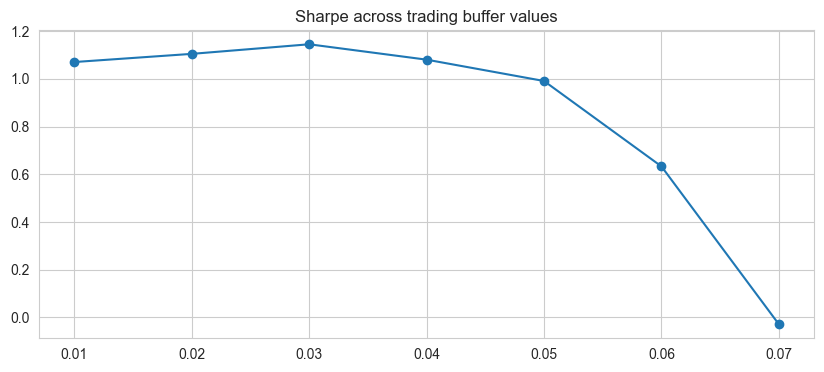
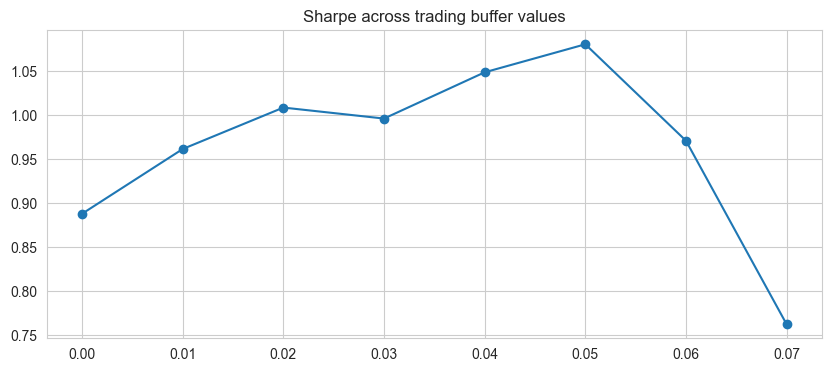
changes

diff --git a/_posts/2024-03-11-crypto-stat-arb-II.md b/_posts/2024-03-11-crypto-stat-arb-II.md
@@ -2,11 +2,11 @@
 layout: post
 title: "Crypto Stat Arb Series II: Backtesting with a Trade Buffer"
 category: quant
-excerpt: "Part II of a trading project from RobotJames/Kris, originally in R, in Python. I code up a backtest in Python based off RJ/Kris' R backtesting framework Rsims to implement a trading buffer as a heuristic to manage turnover. I then backtest the 0.3/0.2/0.5 carry/momentum/breakout weighted strategy from Part I versus a dynamically weighted version modelling expected returns, finding the trade buffer value for optimal Sharpe."
+excerpt: "Part II of a trading project from RobotJames/Kris, originally in R, in Python. I code up a backtest in Python based off RJ/Kris' event-based R backtesting framework Rsims to implement a trading buffer as a heuristic to manage turnover. I then backtest the 0.3/0.2/0.5 carry/momentum/breakout weighted strategy from Part I versus a dynamically weighted version modelling expected returns, finding the trade buffer value for optimal Sharpe."
 
 ---
 
-Part II trading project from RobotJames/Kris, originally in R, in Python. I code up a backtest in Python based off RJ/Kris' R backtesting framework [Rsims](https://github.com/Robot-Wealth/rsims) to implement a trading buffer as a heuristic to manage turnover. I then backtest the 0.3/0.2/0.5 weighted strategy from Part I versus a dynamically weighted version of the strategy from modelling expected returns.
+Part II trading project from RobotJames/Kris, originally in R, in Python. I code up a backtest in Python based off RJ/Kris' event-based R backtesting framework [Rsims](https://github.com/Robot-Wealth/rsims) to implement a trading buffer as a heuristic to manage turnover. I then backtest the 0.3/0.2/0.5 weighted strategy from Part I versus a dynamically weighted version of the strategy from modelling expected returns.
 
 We want to simulated our strategy in the previous post via a backtest. RobotJames and Kris cover this in this part of their Crypto stat arb series. They have a backtesting library in R, `rsims`, that they use and demonstrate in their post. We are going to implement a simpler version of `fixed_comission_with_funding.R` in Python. To quote their post:
 
@@ -33,6 +33,8 @@ funding = model_df.pivot(index='date', columns='ticker', values='funding_rate').
 # Structure of the Backtest
 
 The main code of the backtest is in this function: `fixed_commission_backtest_with_funding`. It expects the `weights`, `close` and `funding` in the format mentioned above. It assumes we can trade fractional positions, and starts with 10000 initial cash that is not reinvested - we always rebalance with 10000 or less each day.
+
+The `15 bps` costs is quoted from the original psot as a "reasonable approximation of actual Binance costs (spreads + market impact + commission)".
 
 ```python
 def fixed_commission_backtest_with_funding(prices, target_weights, funding_rates, 
@@ -199,21 +201,31 @@ plot_equity(total_eq,sharpe)
 <img src="{{ site.imageurl }}/CryptoStatArb/images_backtest/2_equity_curve.png" style="width:100%;"/>
 </center>
 
-A Sharpe of 1.67, similar to the original post. Let's look at turnover. We can see that with a trade buffer of `0.05` the turnover on average hits `~4%` of the trading capital per day, with extremes of turning over `~15%` of the book.
+A Sharpe of 1.67, similar to the original post. Let's look at turnover. We can see that with a trade buffer of `0.05` the turnover on average hits `~4%` of the trading capital per day, with extremes of turning over `~15%` of the book. Interestingly, the strategy returns have negative skew.
+
 
 <center>
 <img src="{{ site.imageurl }}/CryptoStatArb/images_backtest/4_turnover.png" style="width:100%;"/>
 </center>
 
-Further zooming in on turnover of a randomly chosen week:
 
 <center>
-<img src="{{ site.imageurl }}/CryptoStatArb/images_backtest/5_daily_turnover.png" style="width:70%;"/>
+<img src="{{ site.imageurl }}/CryptoStatArb/images_backtest/3_rets_dist.png" style="width:90%;"/>
 </center>
+
+We can also plot the turnover of a randomly chosen week:
+
+
+<center>
+<img src="{{ site.imageurl }}/CryptoStatArb/images_backtest/5_daily_turnover.png" style="width:90%;"/>
+</center>
+
 
 ## Backtesting a Dynamically Weighted Strategy
 
 In this article, [How to Model Features as Expected Returns](https://robotwealth.com/how-to-model-features-as-expected-returns/), Kris shows how to convert the raw signals into returns. He regresses momentum and carry weights on a historical 90 day window of demeaned returns, and breakout on the same window of returns. The model coefficients are used recalculated every 10 days to capture the changing relationship between deciles and returns. 
+
+We can then blend our carry/momentum/breakout into a single weight for a ticker for a day by taking the model coefficients multiplied by the feature deciles plus the intercept. 
 
 <center>
 <img src="{{ site.imageurl }}/CryptoStatArb/images_research/16_carry_dec_year.png" style="width:100%;"/>
@@ -232,4 +244,91 @@ Momentum looks even noisier with no visible relationship.
 <img src="{{ site.imageurl }}/CryptoStatArb/images_research/17_breakout_dec_year.png" style="width:100%;"/>
 </center>
 
-Kris regresses momentum and carry on cross-sectional returns to estimate it, but does not use the linear model for the breakout feature. Instead, we will estimate cross-sectional returns with momentum, carry and breakout, then blend the coefficients times weights + intercept for the return estimate, and that will be our weights.
+Kris regresses momentum and carry on cross-sectional returns to estimate it, but does not use the linear model for the breakout feature. Instead, we will estimate cross-sectional returns with momentum, carry and breakout with rolling 30 day window then blend the coefficients times weights + intercept for the return estimate, and that will be our weights.
+
+I first rank breakout weights cross-sectionally then use `qcut` to produce our quantiles, then shift it so breakout is on a scale of -4.5 to 4.5:
+
+```python
+exp_return_df = model_df.copy()
+exp_return_df = exp_return_df.groupby('date').apply(lambda x:x.assign(
+                        breakout_weight = pd.qcut(x.breakout_weight.rank(method='first')
+                        , q=10, labels=False, duplicates='drop') + 1 - 5.5,
+                        )).reset_index(drop=True)
+```
+Then, we can code up the rolling regressions with `rolling_ols`. We first group by date, then use the length of the grouped data and skip length in our for loop. We store the model coefficients at each interval, then `.resample('D').ffill()` to get daily coefficients.
+
+```python
+
+import statsmodels.api as sm
+def rolling_ols(data, target_col, feature_cols, window_size=30, skip_size=1):
+    
+    label = 'xs' if target_col == 'demeaned_rets' else 'ts'
+    results = pd.DataFrame(columns=['date'] + 
+    [f'coef_{col}' for col in feature_cols] + [f'{label}_intercept'] + [f'{label}_r2'])
+    # Group the data by 'date'
+    grouped_data = data.groupby('date')
+    # Iterate through the unique dates with the rolling window and skip
+    for i in range(0, len(grouped_data), skip_size):
+        # Select the unique dates for the current window
+        selected_dates = list(grouped_data.groups.keys())[i:i+window_size]
+        # Extract rows for the selected dates
+        window_data = data[data['date'].isin(selected_dates)]
+        # Fit the OLS model
+        y = window_data[target_col]
+        X = sm.add_constant(window_data[feature_cols])
+        model = sm.OLS(y, X).fit()
+        # Extract and store the results
+        results = results.append({'date': window_data.iloc[-1]['date'],
+                                    **{f'coef_{col}': model.params[col] for col in feature_cols},
+                                    f'{label}_intercept': model.params['const'],
+                                    f'{label}_r2': model.rsquared},
+                                    ignore_index=True)
+
+    results.set_index('date', inplace=True)
+    results.index = pd.to_datetime(results.index)
+    return results.groupby(results.index).last()
+```
+We can then inner join our regression coefficients and intercept to our data.
+
+```python
+xs_coeffs = rolling_ols(df, 'demeaned_rets', ['carry_weight','momo_weight','breakout_weight'])
+            .resample('D').ffill()
+exp_return_df['date'] = pd.to_datetime(exp_return_df['date'])
+exp_return_df = pd.merge(exp_return_df,xs_coeffs,on='date',how='inner')
+```
+```python
+xs_coeffs[['coef_carry_weight','coef_momo_weight','coef_breakout_weight']]
+.plot(figsize=(10,4),title='Rolling linear model coefficients')
+```
+
+<center>
+<img src="{{ site.imageurl }}/CryptoStatArb/images_research/18_ts_lm_coeffs.png" style="width:100%;"/>
+</center>
+
+Similar to the statically weighted strategy, we can run it through the backtest to optimize for the buffer.
+
+<center>
+<img src="{{ site.imageurl }}/CryptoStatArb/images_backtest/1_ts_sharpe_buffer.png" style="width:80%;"/>
+</center>
+
+<center>
+<img src="{{ site.imageurl }}/CryptoStatArb/images_backtest/2_ts_equity_curve.png" style="width:100%;"/>
+</center>
+
+<center>
+<img src="{{ site.imageurl }}/CryptoStatArb/images_backtest/4_ts_turnover.png" style="width:100%;"/>
+</center>
+
+<center>
+<img src="{{ site.imageurl }}/CryptoStatArb/images_backtest/3_ts_rets_dist.png" style="width:90%;"/>
+</center>
+
+Unfortunately, performance of this strategy is worse than the simple, static 0.5/0.2/0.3 weighting, with 2x as much turnover for the same trading buffer value. However, the skew profile is positive compared to to the previous strategy.
+
+## Summary
+
+And thus, we have backtested the carry/breakout/momentum strategy using signals created in [Part I](https://analytic-musings.com/2024/03/10/crypto-stat-arb-I/), using the rough outline of RobotJames and Kris `rsims` R backtesting library to construct a Python event-based back test.
+
+One criticism of course, is that in the backtest, I sort of removed the code responsible for margin related rebalancing. Another issue is that my formula for momentum is different from Kris', and the weights of the momentum are -0.2 instead of 0.2 (my momentum factor plots shows a linear trend). And lastly, I didn't exactly replicate the methodology for modelling expected returns - I used all 3 features as cross-sectional return estimates, with different window/skip lengths (30/1 instead of 90/10), while the original post used only momentum/carry for xs and breakout for ts.
+
+This concludes a small 2 part series of a trading project. I have no original trading ideas, so the best I can do for now is to copy good projects to learn the workflows.

diff --git a/_posts/2024-03-10-crypto-stat-arb-I.md b/_posts/2024-03-10-crypto-stat-arb-I.md
@@ -309,7 +309,7 @@ This would mean instead of using a static 0.5/0.2/0.3 blending scheme, the weigh
 
 In conclusion, this post was my first trading project, which I am very thankful to RobotJames and Kris for putting this out there for free in R. As an aspiring quant, I am very grateful such good free learning resources - complete with code, data and results exist, for us to learn.
 
-While from reading their R code I do notice the elegance of R's functional programming workflow with `%>%` and plotting capability with `ggplot`. I learned some Python tricks to emulate this.
+We've constructed basic signals, both cross-sectional and time series, evaluated their characteristics and their returns. We've done so using some Pandas workflows to evaluate a dynamic universe of instruments in a cross-sectional manner, in the spirit of R's functional programming paradigm with `%>%`.
 
 In the next post, I adapt and translate code from James and Kris' backtesting framework in R, `Rsims`, to implement the backtest in Python with trading costs and a _trading buffer_ heuristic to reduce turnover, in place of portfolio optimization. This lets us properly evaluate the strategy with deployed capital, and compare the simple 0.5/0.2/0.3 weighting scheme to a dynamic one based off estimating expected returns with regressions.
 
